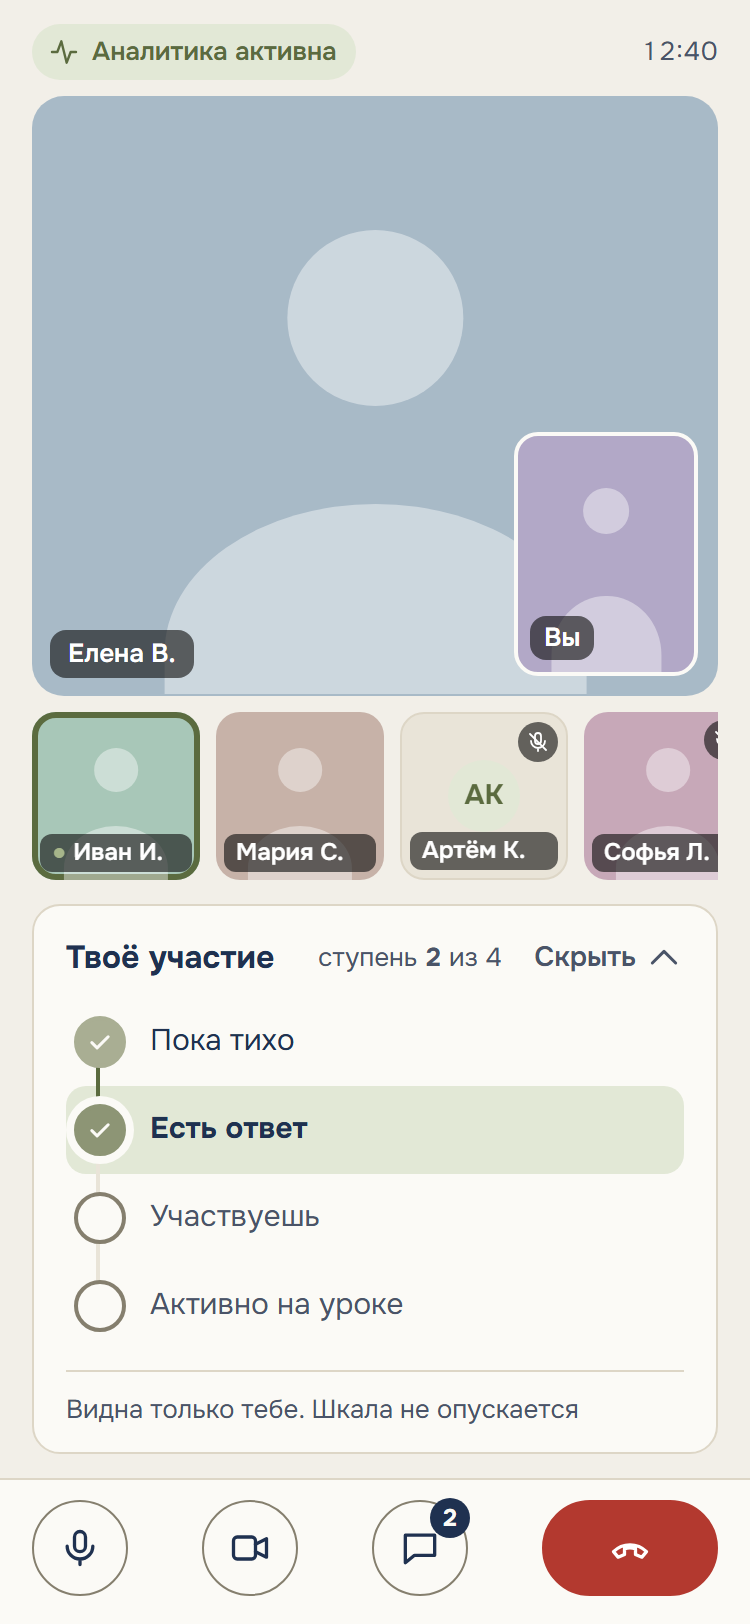
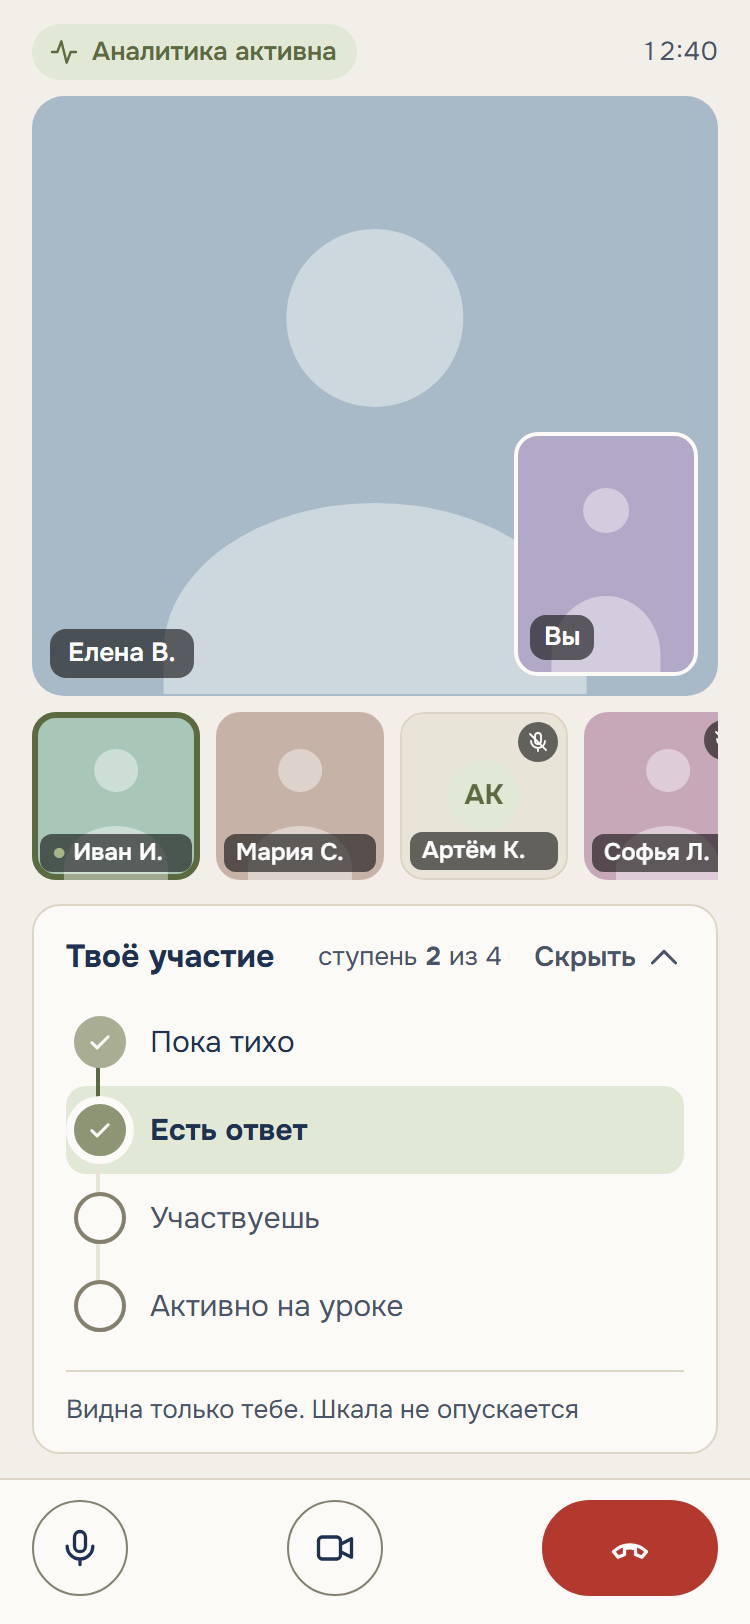
Экран ученика: без кнопки чата, скриншоты пересняты
Чата в продукте нет, на экране учителя его тоже убрали.

diff --git a/design/student-call.html b/design/student-call.html
@@ -257,7 +257,6 @@
         <footer class="controls">
           <button class="cbtn ${micOn ? "" : "off"}" aria-label="${micOn ? "Выключить микрофон" : "Включить микрофон"}">${icon(micOn ? "mic" : "mic-off")}</button>
           <button class="cbtn" aria-label="Выключить камеру">${icon("cam")}</button>
-          <button class="cbtn" aria-label="Чат">${icon("chat")}<span class="badge">2</span></button>
           <button class="cbtn leave" aria-label="Выйти из звонка">${icon("leave")}</button>
         </footer>
       </section>`;

diff --git a/design/README.md b/design/README.md
@@ -60,7 +60,7 @@
   - Шкалу скрывает и возвращает кнопка «Скрыть» / «Показать» в её шапке. Остаётся строка «Твоё участие · ступень N из 4», видео занимает освободившееся место, выбор запоминается на устройстве. `?scale=hidden|shown` перекрывает запомненное.
   - Аналитика выключена: индикатор серый «Аналитика выключена», вместо шкалы текст «Аналитика выключена. Шкала не ведётся.» Кнопки «Скрыть» нет.
   - Прототип: нажатие на ступень выше текущей поднимает шкалу, на ступень ниже ничего не меняет. Смена ступени объявляется скринридеру («Ступень: …»).
-  - Нижняя полоса: микрофон, камера, чат, выход.
+  - Нижняя полоса: микрофон, камера, выход. Чата нет, как и у учителя.
 
 - `bot-registration.html` — переписка с ботом: регистрация и управление классом. Тексты и кнопки прошли ru-text, Фёдор переносит их в бота как есть, включая неразрывные пробелы (`&nbsp;` в разметке). Без адреса показаны все шаги, один шаг — `?step=1…14`. Рядом с каждым шагом заметка: когда приходит сообщение и что делает кнопка.
 
